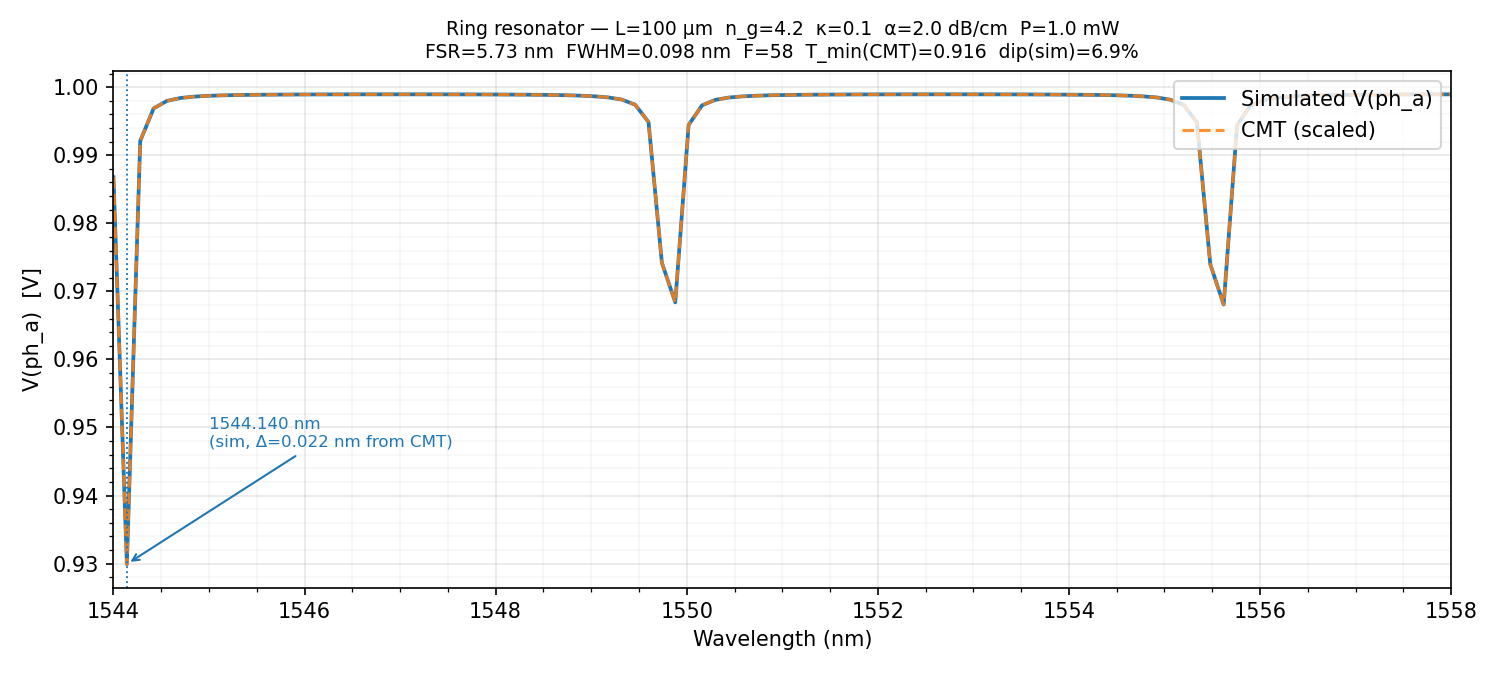
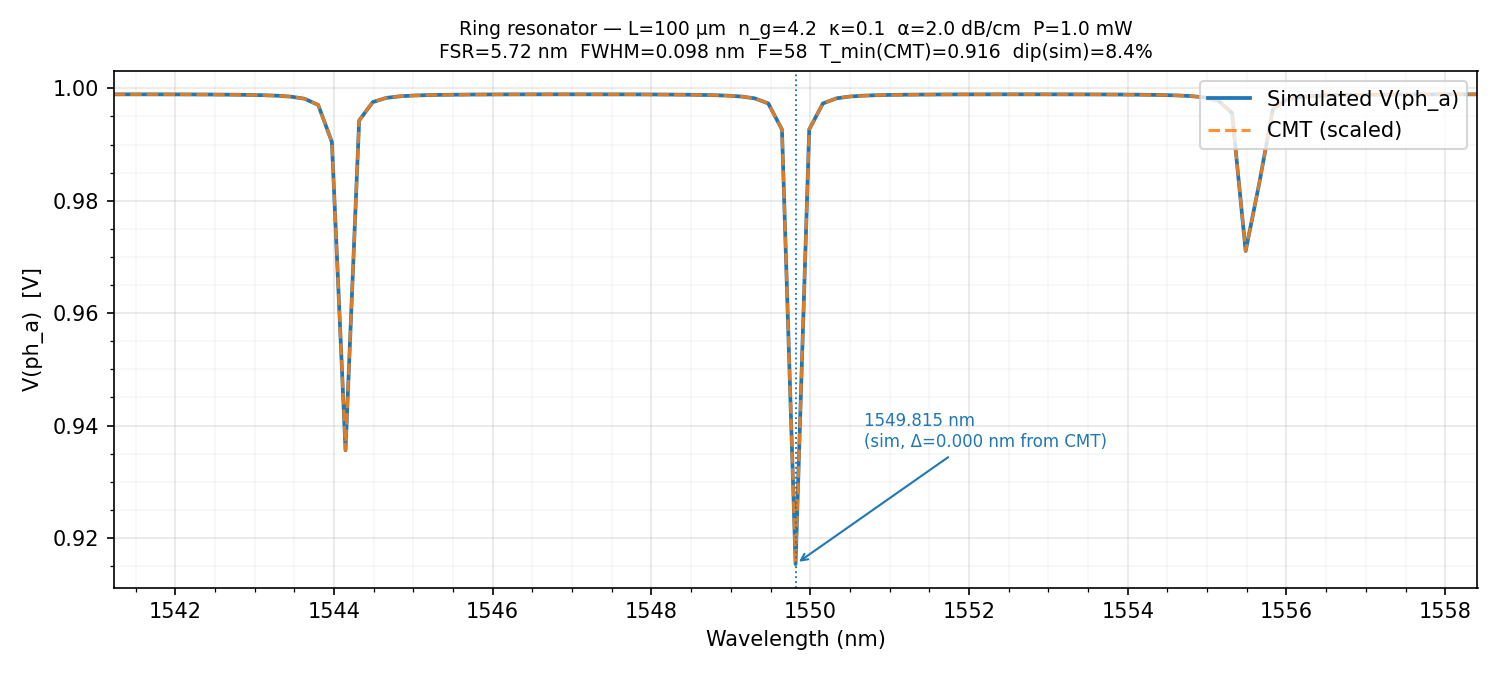
Phase 2: migrate photonic models to single 3-wire optical discipline
All optical wires (amplitude re/im AND wavelength lambda) now use the
single `optical` discipline with Ophase/Oamp accessors throughout.

Key fixes discovered and applied:
- OpenVAF generates internal flow nodes when potential/flow natures share
  the same `units` string; fixed by giving Optical_Phase units="rad"
- Bootstrap guard threshold `wl_nm < 100.0` missed the VMAX ramp steps
  (0.5, 1.0, 1.5 µm); fixed to `wl_nm < wavelength_nm * 0.99`

All 4 ring resonator tests + 7 photonic model tests pass.
Full workspace test suite: 0 failures.

diff --git a/crates/fairchild-osdi/tests/photonic_models.rs b/crates/fairchild-osdi/tests/photonic_models.rs
@@ -49,8 +49,8 @@ fn cw_laser_descriptor_sanity() {
     let name = unsafe { CStr::from_ptr(d.name) }.to_str().unwrap();
     assert_eq!(name, "cw_laser");
 
-    // 2 external terminals (out_re, out_im).
-    assert_eq!(d.num_terminals, 2, "expected 2 terminals");
+    // 3 external terminals (out_re, out_im, out_lambda).
+    assert_eq!(d.num_terminals, 3, "expected 3 terminals");
     // At least 3 declared parameters (power_mW, phi_0_deg, wavelength_nm).
     assert!(d.num_params >= 3, "expected ≥3 params, got {}", d.num_params);
 
@@ -70,8 +70,8 @@ fn waveguide_descriptor_sanity() {
     let name = unsafe { CStr::from_ptr(d.name) }.to_str().unwrap();
     assert_eq!(name, "waveguide");
 
-    // 4 external terminals: in_re, in_im, out_re, out_im.
-    assert_eq!(d.num_terminals, 4, "expected 4 terminals");
+    // 6 external terminals: in_re, in_im, in_lambda, out_re, out_im, out_lambda.
+    assert_eq!(d.num_terminals, 6, "expected 6 terminals");
     assert!(d.num_params >= 4, "expected ≥4 params, got {}", d.num_params);
 
     println!(
@@ -90,8 +90,8 @@ fn directional_coupler_descriptor_sanity() {
     let name = unsafe { CStr::from_ptr(d.name) }.to_str().unwrap();
     assert_eq!(name, "directional_coupler");
 
-    // 8 external terminals: 2 input pairs + 2 output pairs.
-    assert_eq!(d.num_terminals, 8, "expected 8 terminals");
+    // 12 external terminals: 4 ports × 3 wires (re, im, lambda).
+    assert_eq!(d.num_terminals, 12, "expected 12 terminals");
     assert!(d.num_params >= 4, "expected ≥4 params, got {}", d.num_params);
 
     println!(
@@ -110,8 +110,8 @@ fn photodetector_descriptor_sanity() {
     let name = unsafe { CStr::from_ptr(d.name) }.to_str().unwrap();
     assert_eq!(name, "photodetector");
 
-    // 4 external terminals: in_re, in_im (optical) + anode, cathode (electrical).
-    assert_eq!(d.num_terminals, 4, "expected 4 terminals");
+    // 5 external terminals: in_re, in_im, in_lambda (optical) + anode, cathode (electrical).
+    assert_eq!(d.num_terminals, 5, "expected 5 terminals");
     assert!(d.num_params >= 3, "expected ≥3 params, got {}", d.num_params);
 
     println!(
@@ -124,7 +124,7 @@ fn photodetector_descriptor_sanity() {
 
 /// CW laser (1 mW, 0° phase) stand-alone: Ophase output should equal sqrt(P).
 ///
-/// Circuit: Xlaser out_re out_im cw_laser
+/// Circuit: Xlaser out_re out_im wl cw_laser
 /// Expected (analytical):
 ///   V(out_re) = sqrt(1e-3) ≈ 0.031623  (real part of SVEA amplitude)
 ///   V(out_im) = 0.0                    (imaginary part)
@@ -135,8 +135,8 @@ fn cw_laser_dc_op_default_params() {
 
     let netlist = parse_spice(
         "* CW laser stand-alone DC OP\n\
-         Xlaser out_re out_im cw_laser\n\
-         .optical out_re out_im\n\
+         Xlaser out_re out_im wl cw_laser\n\
+         .optical out_re out_im wl\n\
          .op\n.end\n",
     ).unwrap();
 
@@ -173,8 +173,8 @@ fn cw_laser_dc_op_default_params() {
 /// Laser → photodetector → load resistor: photocurrent should match responsivity * power.
 ///
 /// Circuit:
-///   Xlaser  laser_re laser_im  cw_laser         (1 mW default)
-///   Xpd     laser_re laser_im  ph_a 0  photodetector  (R=1 A/W default)
+///   Xlaser  laser_re laser_im wl  cw_laser              (1 mW default)
+///   Xpd     laser_re laser_im wl  ph_a 0  photodetector (R=1 A/W default)
 ///   R_load  ph_a 0  1k
 ///
 /// Expected photocurrent: I_ph = 1.0 A/W * 1e-3 W = 1 mA
@@ -188,10 +188,10 @@ fn laser_photodetector_chain_dc_op() {
 
     let netlist = parse_spice(
         "* CW laser → photodetector → load\n\
-         Xlaser  laser_re laser_im              cw_laser\n\
-         Xpd     laser_re laser_im  ph_a 0      photodetector\n\
+         Xlaser  laser_re laser_im wl              cw_laser\n\
+         Xpd     laser_re laser_im wl  ph_a 0      photodetector\n\
          Rload   ph_a 0  1k\n\
-         .optical laser_re laser_im\n\
+         .optical laser_re laser_im wl\n\
          .op\n.end\n",
     ).unwrap();
 
@@ -240,11 +240,11 @@ fn laser_waveguide_photodetector_chain_dc_op() {
 
     let netlist = parse_spice(
         "* laser → waveguide (lossless) → PD → load\n\
-         Xlaser  laser_re laser_im                          cw_laser\n\
-         Xwg     laser_re laser_im  wg_out_re wg_out_im     waveguide\n\
-         Xpd     wg_out_re wg_out_im  ph_a 0                photodetector\n\
+         Xlaser  laser_re laser_im wl                              cw_laser\n\
+         Xwg     laser_re laser_im wl  wg_out_re wg_out_im wl     waveguide\n\
+         Xpd     wg_out_re wg_out_im wl  ph_a 0                   photodetector\n\
          Rload   ph_a 0  1k\n\
-         .optical laser_re laser_im wg_out_re wg_out_im\n\
+         .optical laser_re laser_im wg_out_re wg_out_im wl\n\
          .op\n.end\n",
     ).unwrap();
 

diff --git a/crates/fairchild-osdi/tests/ring_resonator.rs b/crates/fairchild-osdi/tests/ring_resonator.rs
@@ -53,20 +53,23 @@ fn skip_if_missing(path: &PathBuf) -> bool {
 }
 
 /// Build the ring resonator netlist string with given wavelength.
+///
+/// 3-wire topology: each optical port carries (re, im, lambda).
+/// All lambda terminals connect to the shared `wl` net; the laser drives it.
 fn ring_resonator_netlist(wavelength_nm: f64) -> String {
     format!(
         "* Ring resonator (wavelength {wavelength_nm:.3} nm)\n\
-         Xlaser     laser_re laser_im                                           cw_laser \
+         Xlaser     laser_re laser_im wl                                        cw_laser \
                power_mW={POWER_MW} wavelength_nm={wavelength_nm:.6}\n\
-         Xcoupler   laser_re laser_im  ring_fb_re ring_fb_im  \
-               through_re through_im  ring_in_re ring_in_im  directional_coupler \
+         Xcoupler   laser_re laser_im wl  ring_fb_re ring_fb_im wl  \
+               through_re through_im wl  ring_in_re ring_in_im wl  directional_coupler \
                kappa_0={KAPPA_0} wavelength_nm={wavelength_nm:.6}\n\
-         Xring      ring_in_re ring_in_im  ring_fb_re ring_fb_im  waveguide \
+         Xring      ring_in_re ring_in_im wl  ring_fb_re ring_fb_im wl  waveguide \
                L_um={L_RING_UM} n_g={N_G} alpha_dB_cm={ALPHA_DB_CM} wavelength_nm={wavelength_nm:.6}\n\
-         Xpd        through_re through_im  ph_a 0  photodetector\n\
+         Xpd        through_re through_im wl  ph_a 0  photodetector\n\
          Rload      ph_a 0  1k\n\
          .optical   laser_re laser_im  ring_in_re ring_in_im  ring_fb_re ring_fb_im  \
-               through_re through_im\n\
+               through_re through_im  wl\n\
          .op\n\
          .end\n"
     )
@@ -133,7 +136,7 @@ fn access_ptr_diagnostic() {
     let mut dev = OsdiDevice::from_library(Arc::clone(&lib), 0).expect("descriptor 0");
     let ctx = SimContext::default();
     dev.setup_model(&ctx);
-    dev.setup_instance(&[Some(0), Some(1)], &ctx);
+    dev.setup_instance(&[Some(0), Some(1), Some(2)], &ctx);
 
     let model_raw = dev.model_ptr_raw();
     let n_model_words = (model_size + 7) / 8;
@@ -169,6 +172,30 @@ fn access_ptr_diagnostic() {
         .map(|i| unsafe { *((model_raw as *const f64).add(i)) })
         .collect();
     eprintln!("Model buffer after set_real_param: {:?}", model_f64s);
+
+    // --- Node/Jacobian topology (cw_laser) ---
+    eprintln!("\nNode topology: num_nodes={}, num_terminals={}", desc.num_nodes, desc.num_terminals);
+    let n_nodes_total = desc.num_nodes as usize;
+    if !desc.nodes.is_null() {
+        let nodes = unsafe { std::slice::from_raw_parts(desc.nodes, n_nodes_total) };
+        for (i, node) in nodes.iter().enumerate() {
+            let name = if node.name.is_null() { "<null>" } else {
+                unsafe { std::ffi::CStr::from_ptr(node.name).to_str().unwrap_or("?") }
+            };
+            eprintln!("  node[{i}] name={name:20} is_flow={} resist_res_off={}", node.is_flow, node.resist_residual_off);
+        }
+    }
+
+    eprintln!("\nJacobian: num_jacobian_entries={}, num_resistive={}", desc.num_jacobian_entries, desc.num_resistive_jacobian_entries);
+    let n_jac = desc.num_jacobian_entries as usize;
+    let n_resist = desc.num_resistive_jacobian_entries as usize;
+    if !desc.jacobian_entries.is_null() && n_jac > 0 {
+        let entries = unsafe { std::slice::from_raw_parts(desc.jacobian_entries, n_jac) };
+        for (i, e) in entries.iter().enumerate() {
+            let kind = if i < n_resist { "RESIST" } else { "REACT" };
+            eprintln!("  entry[{i}] {kind}: node_1={} node_2={} react_ptr_off={}", e.nodes.node_1, e.nodes.node_2, e.react_ptr_off);
+        }
+    }
 }
 
 /// Verify that set_real_param correctly updates a model parameter in the OSDI
@@ -184,10 +211,10 @@ fn set_real_param_verification() {
     lib.register_into(&mut registry);
 
     let netlist_str = "* laser set_real_param test\n\
-                       Xlaser laser_re laser_im cw_laser\n\
+                       Xlaser laser_re laser_im wl cw_laser\n\
                        Rre laser_re 0 1\n\
                        Rim laser_im 0 1\n\
-                       .optical laser_re laser_im\n\
+                       .optical laser_re laser_im wl\n\
                        .op\n\
                        .end\n";
     let netlist = parse_spice(netlist_str).expect("parse netlist");

diff --git a/crates/fairchild-osdi/examples/ring_sweep.rs b/crates/fairchild-osdi/examples/ring_sweep.rs
@@ -101,19 +101,21 @@ fn main() {
     }
 
     // ── Build base netlist (topology is wavelength-independent) ───────────────
+    // 3-wire topology: each optical port carries (re, im, lambda).
+    // All lambda terminals connect to the shared `wl` net; the laser drives it.
     let base_netlist_str = format!(
         "* Ring resonator sweep\n\
-         Xlaser    laser_re laser_im                                          cw_laser \
+         Xlaser    laser_re laser_im wl                                        cw_laser \
                power_mW={power_mw} wavelength_nm=1550.0\n\
-         Xcoupler  laser_re laser_im  ring_fb_re ring_fb_im  \
-               through_re through_im  ring_in_re ring_in_im  directional_coupler \
+         Xcoupler  laser_re laser_im wl  ring_fb_re ring_fb_im wl  \
+               through_re through_im wl  ring_in_re ring_in_im wl  directional_coupler \
                kappa_0={kappa_0} wavelength_nm=1550.0\n\
-         Xring     ring_in_re ring_in_im  ring_fb_re ring_fb_im  waveguide \
+         Xring     ring_in_re ring_in_im wl  ring_fb_re ring_fb_im wl  waveguide \
                L_um={l_ring_um} n_g={n_g} alpha_dB_cm={alpha_db_cm} wavelength_nm=1550.0\n\
-         Xpd       through_re through_im  ph_a 0  photodetector\n\
+         Xpd       through_re through_im wl  ph_a 0  photodetector\n\
          Rload     ph_a 0  {r_load}\n\
          .optical  laser_re laser_im  ring_in_re ring_in_im  ring_fb_re ring_fb_im  \
-               through_re through_im\n\
+               through_re through_im  wl\n\
          .op\n\
          .end\n"
     );

diff --git a/.claude/memory/phase_2.md b/.claude/memory/phase_2.md
@@ -162,8 +162,28 @@ python3 scripts/plot_ring_sweep.py /tmp/ring_resonator_sweep.csv
 
 WDM: each channel = separate `(o_re, o_im)` port pair with its own `ω₀_k`.
 
-## Signal representation
+## Signal representation (3-wire, completed 2026-05-12)
 
-Per optical port pair: two MNA nodes `(o_re, o_im)` = complex SVEA envelope `A(t)` in √W.
-Photonic models stamp amplitude/phase contributions into those rows.
-Carrier `ω₀` is passed via `SimContext`; models compute `β(ω₀)`, coupling ratios, etc.
+Per optical port: **three** MNA nodes `(o_re, o_im, o_lambda)`:
+- `o_re`, `o_im` = complex SVEA envelope `A(t)` in √W
+- `o_lambda` = wavelength in µm (nodal voltage), shared across all devices on the same optical bus
+
+All three wires use the single `optical` discipline (`Ophase`/`Oamp` accessors). The lambda wire stores µm using the same Norton-equivalent pattern.
+
+**All lambda terminals of every device in a ring share the same `wl` net.** The `.optical` directive in the SPICE netlist declares all optical nodes (amplitude + lambda) together.
+
+---
+
+## OpenVAF quirks (critical — affects all VA model compilation)
+
+### Quirk 1: same `units` string → internal flow nodes
+When `Optical_Amplitude` (flow) and `Optical_Phase` (potential) both have `units = "sqrt(W)"`, OpenVAF generates internal flow nodes (`is_flow=true`) for every port of the discipline. These appear as `num_nodes > num_terminals` in the OSDI descriptor. The internal nodes cause Jacobian singularities: the Schur-reduced diagonal J[0][0] = 0, only GMIN remains, and NR fails to converge.
+
+**Fix**: give the two natures different `units` strings. In `optical.vams`, `Optical_Phase` has `units = "rad"` — different from `Optical_Amplitude`'s `"sqrt(W)"`. This prevents flow-node generation.
+
+### Quirk 2: bootstrap guard must cover VMAX ramp
+The NR solver (newton.rs) clamps per-iteration voltage changes to `VMAX = 0.5`. The `wl` node target is ~1.55 µm, so NR ramps it: 0 → 0.5 → 1.0 → 1.5 → 1.55 µm over ~4 iterations. A guard of `if (wl_nm < 100.0)` only catches V_wl=0; intermediate steps (0.5 µm = 500 nm) bypass it and compute wrong propagation phases in the waveguide.
+
+**Fix**: `if (wl_nm < wavelength_nm * 0.99) wl_nm = wavelength_nm;` — the parameter value is used until V_wl reaches 99% of target (~1.535 µm). Only at the final converged value does the guard deactivate.
+
+Both fixes are in all 4 VA models (`cw_laser.va`, `waveguide.va`, `directional_coupler.va`, `photodetector.va`).

diff --git a/.claude/memory/project_fairchild.md b/.claude/memory/project_fairchild.md
@@ -48,11 +48,11 @@ crates/
 
 **Reactive history (`x_tprev`)** — `OsdiDevice` holds `x_tprev` (solution at last accepted timestep). `commit_timestep(x)` snapshots it. `load_residual_tran` passes `x_tprev[1..]` as `prev_solve` to `load_spice_rhs_tran`. The `[0]` guard element (=0.0) handles OSDI's ground sentinel (UINT32_MAX → -1 index).
 
-**Optical discipline (Phase 2)** — SVEA two-wire convention: `(o_re, o_im)` complex envelope per port, maps to two MNA nodes. Carrier frequency `ω₀` is a `SimContext` parameter, not a nodal variable.
+**Optical discipline (Phase 2)** — 3-wire convention: `(o_re, o_im, o_lambda)` per optical port. All three use the single `optical` discipline (`Ophase`/`Oamp`). `o_lambda` stores wavelength in µm. All lambda terminals on the same optical bus share one `wl` net. Declared via `.optical` SPICE directive (no separate `.optical_lambda`). CRITICAL: `Optical_Phase` nature must have `units = "rad"` (different from `Optical_Amplitude`'s `"sqrt(W)"`) — same units triggers OpenVAF flow-node generation and NR divergence.
 
 **Norton-equivalent optical models** — VA models MUST use flow contributions (Oamp) only, never potential contributions (Ophase<+). Potential contributions add internal OSDI branch nodes that the runtime doesn't allocate (confirmed: Ophase<+ on a port adds internal nodes, causing `num_nodes > num_terminals`). Use Norton equivalent: `Oamp(p) <+ G*(target - Ophase(p))` with G=1e6.
 
-**XOsdi element** — SPICE `X<name> net0 ... netN model_name [key=val ...]` syntax for arbitrary-port OSDI instances. Parsed in fairchild-parser. Discipline checking via `.optical net1 net2...` directive + `check_disciplines()`. XOsdi devices instantiated in `build_devices()` (newton.rs) by model name lookup.
+**XOsdi element** — SPICE `X<name> net0 ... netN model_name [key=val ...]` syntax for arbitrary-port OSDI instances. Parsed in fairchild-parser. Discipline checking via `.optical net1 net2...` directive + `check_disciplines()` (no separate `.optical_lambda` — lambda wires are declared in `.optical` alongside amplitude wires). XOsdi devices instantiated in `build_devices()` (newton.rs) by model name lookup.
 
 ---
 
